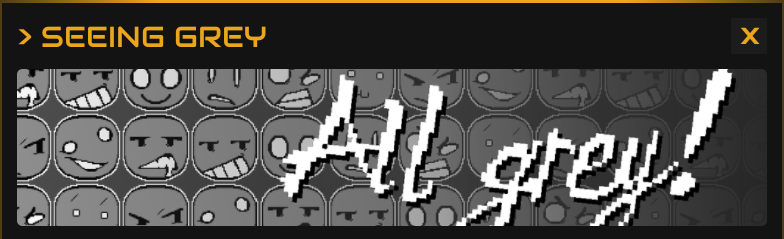
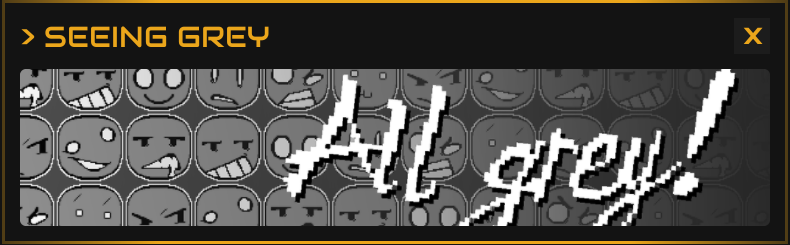
[1.3.8]
Updated seeing grey, added some misc image assets for later

Changed region(s): [[0.0, 0.0, 1.0, 1.0], [0.7959, 0.4393, 0.8265, 0.4686]]

diff --git a/assets/js/version.js b/assets/js/version.js
@@ -21,4 +21,5 @@ document.addEventListener("DOMContentLoaded", () => {
 // window.version = "1.3.4"; // Added frogmen skin
 // window.version = "1.3.5"; // Added prices in gallery, including porting over the official bombline coin graphic. Changed readme to be more specific about which features had already been implemented.
 // window.version = "1.3.6"; // Added What Am I fighting for
-window.version = "1.3.7"; // Updated Galaxy. Updated Funky.
+// window.version = "1.3.7"; // Updated Galaxy. Updated Funky.
+window.version = "1.3.8"; // Updated Seeing Grey.
